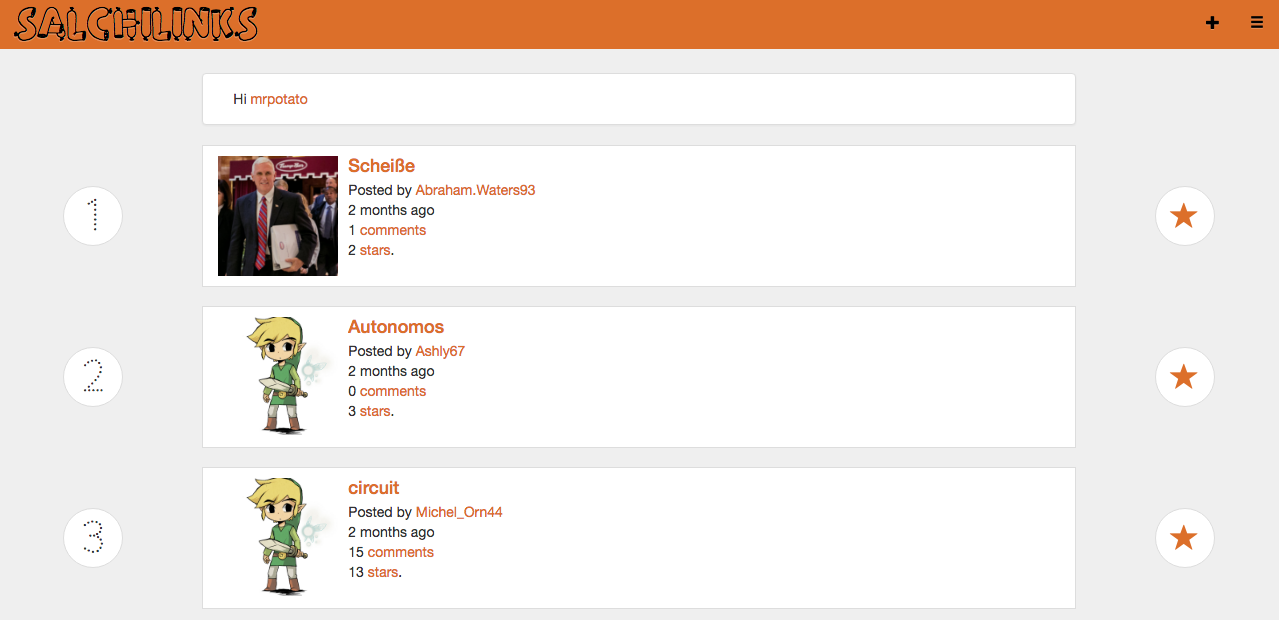
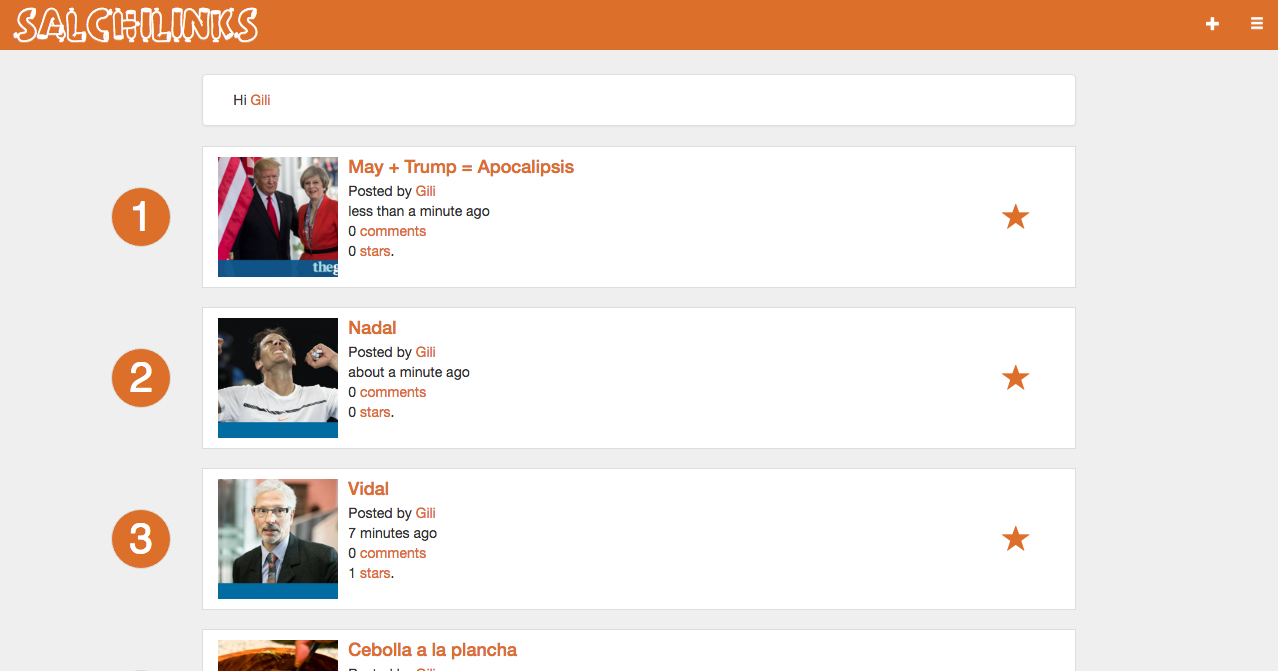
Redesign style

diff --git a/public/style.css b/public/style.css
@@ -9,12 +9,17 @@ body {
     src: url("sausagefont.ttf") /* TTF file for CSS3 browsers */
 }
 
+@font-face {
+    font-family:"sausagesimple";
+    src: url("sausagesimple.ttf") /* TTF file for CSS3 browsers */
+}
+
 #title-display{
     font-size:3em;
     width:150px;
     font-family: sausagefont;
     padding-top: 20px;
-    color: black !important;
+    color: white !important;
     text-align: center !important;
 }
 
@@ -62,10 +67,12 @@ a {
 
 .link-counter {
     margin: 10px;
+    font-family: 'Raleway', sans-serif;
     font-size:3em !important;
     transform: translateY(100);
+    color: white;
     border: 1px solid rgb(221, 221, 221);
-    background-color: white;
+    background-color: #DC6F2A !important;
     height: 60px;
     width: 60px;
     border-radius: 30px;
@@ -80,23 +87,23 @@ a {
     font-size:2em !important;
     font-family: 'Codystar', cursive;
     transform: translateY(100);
-    border: 1px solid rgb(221, 221, 221);
-    background-color: white;
+    /*border: 1px solid rgb(221, 221, 221);
+    background-color: white;*/
     height: 60px;
     width: 60px;
-    border-radius: 30px;
+    /*border-radius: 30px;*/
     display: flex;
     justify-content: center;
     align-items: center;
-    transform: translateX(-80%);
+    transform: translateX(-280%);
 }
 
 .navbar-icon {
-    color: black !important;
+    color: white !important;
 }
 
 .link-info-box:hover {
-    border: 1px solid grey;
+    border: 1px solid #DC6F2A;
 }
 
 .vcenter {

diff --git a/public/index.html b/public/index.html
@@ -5,6 +5,7 @@
     <title>Links Archive</title>
     <link rel="stylesheet" type="text/css" href="./style.css">
     <link href="./sausagefont.ttf" rel="stylesheet">
+    <link href="./sausagesimple.ttf" rel="stylesheet">
     <link href="https://fonts.googleapis.com/css?family=Codystar" rel="stylesheet">
     <script src="https://ajax.googleapis.com/ajax/libs/jquery/1.12.4/jquery.min.js"></script>
     <script src="https://ajax.googleapis.com/ajax/libs/angularjs/1.5.8/angular.min.js"></script>
